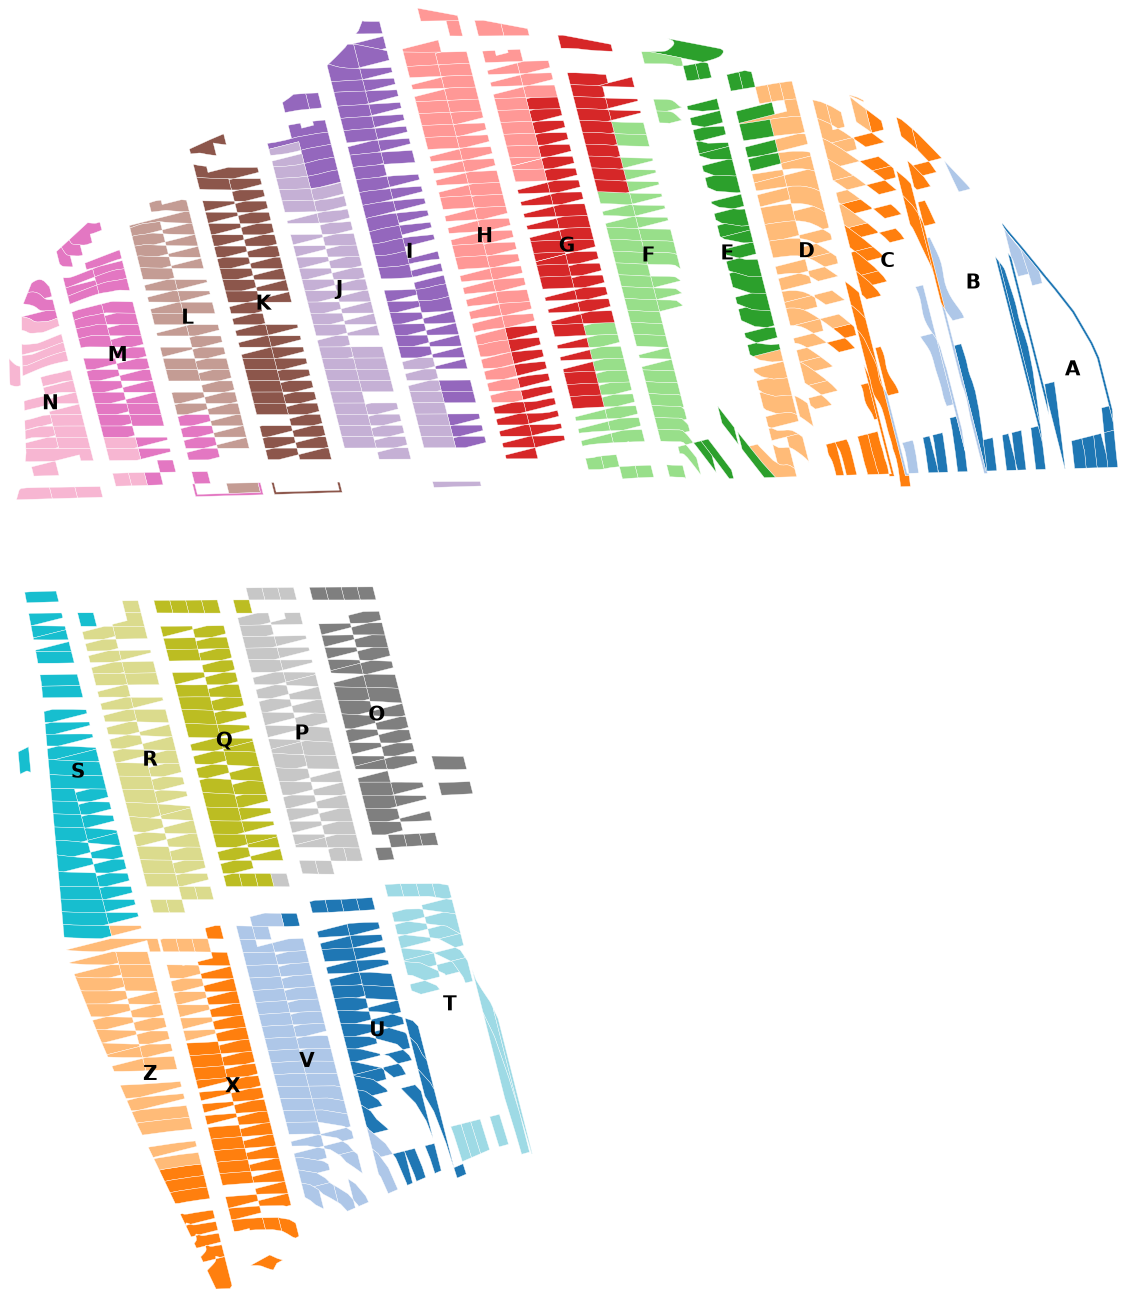
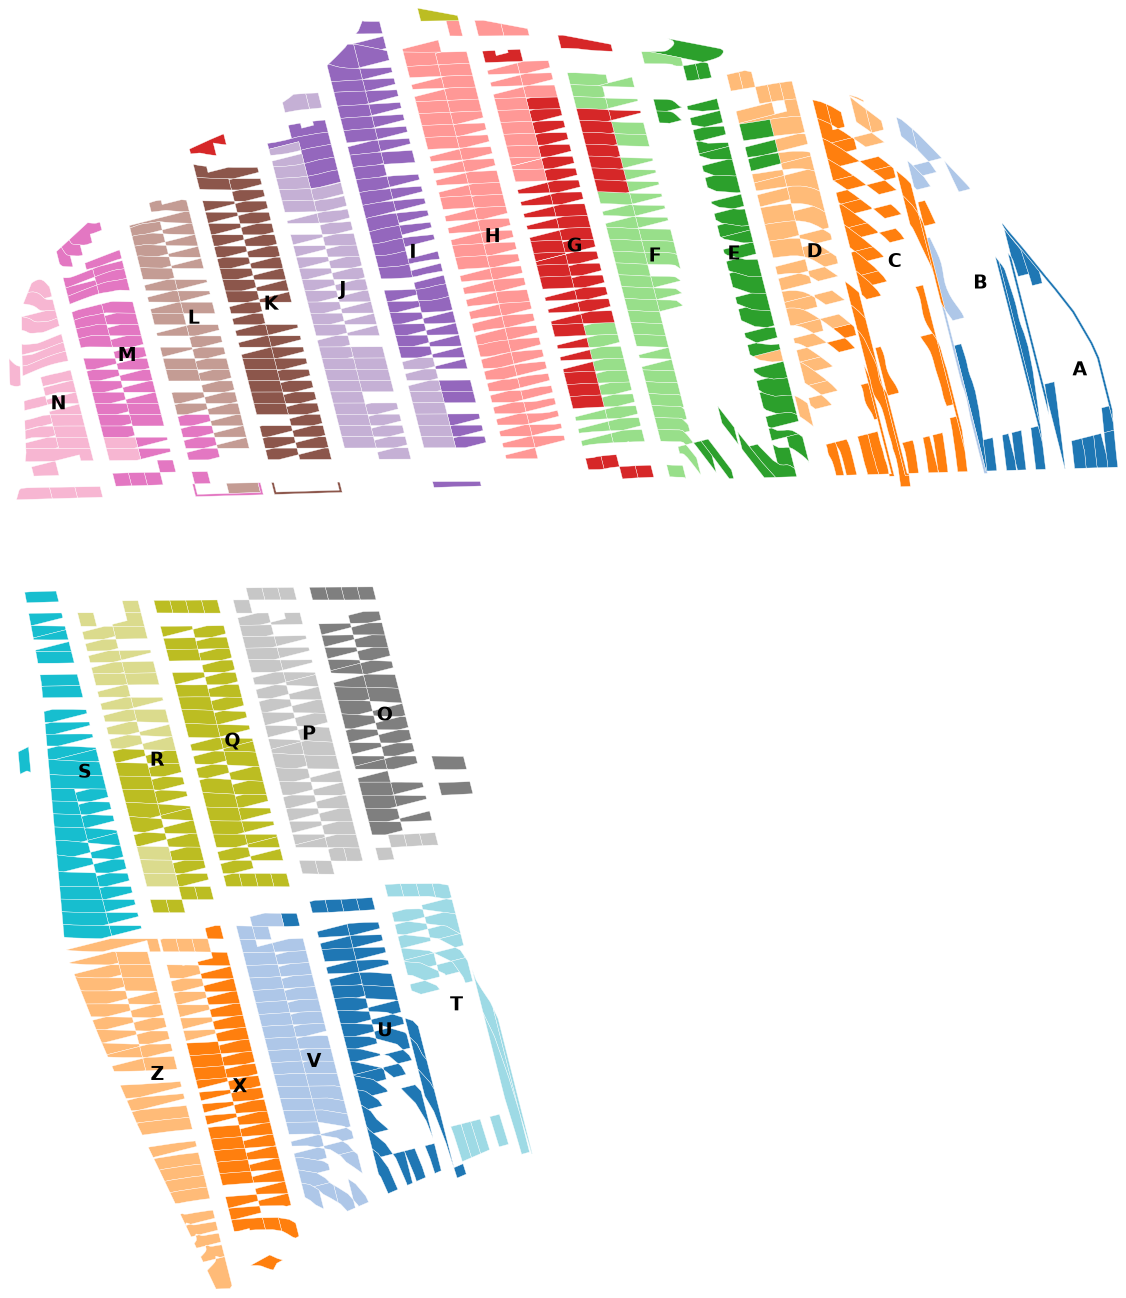
feat(mm-cad): quadra + status REAIS via quadro de disponibilidade (cruzado com a geometria do CAD)
Com o quadro oficial de disponibilidade (Mi Gestão) agora é possível rotular a
quadra de cada lote com base em dado real — fechando a única lacuna que faltava.

- scripts/cad/parse_schedule.py: parser do PDF de disponibilidade
  (quadra → lote → área → status), tratando o layout multi-coluna.
- scripts/cad/build_miguel_marques.py: cruza a geometria REAL do CAD
  (polígono + número + área por lote) com o schedule, atribuindo quadra e status
  por casamento (lote, área) e preenchendo lacunas por adjacência espacial.
- public/maps/miguel-marques-cad-lots.json: 1032 lotes com geometria real,
  quadra e status reais (822 confirmados diretamente pelo quadro; demais por
  adjacência). Preço = área × R$156,25/m². Status: 177 vendidos, 810 disponíveis,
  42 proprietário, 3 negociação.
- docs/cad/miguel-marques-cad-preview.png: preview por quadra — blocos contíguos
  e coerentes, reproduzindo a planta aprovada.

Cobertura: 1032 de ~1254 lotes do CAD (≈82%); os faltantes têm divisas que não
fecham em polígono limpo no CAD. Próximo passo: religar a MiguelMarquesPlanView
para renderizar esta geometria real.

Claude-Session: https://claude.ai/code/session_019GE9rC3vPRisnVytSbJ9zw

diff --git a/scripts/cad/build_miguel_marques.py b/scripts/cad/build_miguel_marques.py
@@ -1,0 +1,138 @@
+#!/usr/bin/env python3
+"""Geometria REAL (DXF) + quadra/status REAIS (schedule PDF) -> JSON final.
+Uso: build_miguel_marques.py <dxf> <schedule.json> [--rot 41] [--write out.json] [--preview out.png]"""
+import sys, re, json, math, argparse
+from collections import defaultdict, Counter
+import ezdxf
+from shapely.geometry import LineString, Point
+from shapely.ops import polygonize, unary_union
+from shapely.strtree import STRtree
+
+ap=argparse.ArgumentParser()
+ap.add_argument('dxf'); ap.add_argument('schedule')
+ap.add_argument('--rot',type=float,default=41.0); ap.add_argument('--write'); ap.add_argument('--preview')
+ap.add_argument('--vbw',type=float,default=1200.0)
+A=ap.parse_args()
+PPM2=156.25
+def clean(t): return re.sub(r'\\[A-Za-z][^;]*;|[{}]','',t).replace('\\P',' ').strip()
+
+doc=ezdxf.readfile(A.dxf); msp=doc.modelspace()
+def s(v,g=40): return round(v/g)*g
+lines=[]
+for e in msp:
+    if e.dxftype()=='LINE' and e.dxf.layer in ('A-DETL-THIN','A-DETL-MEDM','A-DETL'):
+        a,b=e.dxf.start,e.dxf.end; p,q=(s(a.x),s(a.y)),(s(b.x),s(b.y))
+        if p!=q: lines.append(LineString([p,q]))
+faces=[f for f in polygonize(unary_union(lines)) if 8e7<=f.area<=7e8]
+cent=[(f.centroid.x,f.centroid.y) for f in faces]
+nums=[];areas=[];ql=[]
+for e in msp:
+    if e.dxftype()=='MTEXT':
+        t=clean(e.text);p=e.dxf.insert
+        if e.dxf.layer=='A-AREA-IDEN':
+            if re.fullmatch(r'\d+',t):nums.append((int(t),p.x,p.y))
+            else:
+                m=re.search(r'([\d.,]+)\s*m',t)
+                if m:areas.append((float(m.group(1).replace(',','.')),p.x,p.y))
+        elif e.dxf.layer=='G-ANNO-TEXT' and re.fullmatch(r'[A-Z]',t):ql.append((t,p.x,p.y))
+atree=STRtree([Point(x,y) for _,x,y in areas])
+tok=[]
+for nv,x,y in nums:
+    j=atree.nearest(Point(x,y)); av,ax,ay=areas[j]; tok.append((nv,av,(x+ax)/2,(y+ay)/2))
+ttree=STRtree([Point(t[2],t[3]) for t in tok])
+pr=[]
+for fi,(cx,cy) in enumerate(cent):
+    ti=ttree.nearest(Point(cx,cy)); pr.append((math.dist((cx,cy),(tok[ti][2],tok[ti][3])),fi,ti))
+pr.sort(); ft={};used=set()
+for d,fi,ti in pr:
+    if fi in ft or ti in used or d>40000:continue
+    ft[fi]=ti;used.add(ti)
+lote_of={fi:tok[ti][0] for fi,ti in ft.items()}
+area_of={fi:tok[ti][1] for fi,ti in ft.items()}
+
+# schedule index: (lote, areaRounded) -> list[(quadra,status,area)]
+sched=json.load(open(A.schedule))
+idx=defaultdict(list)
+for q,rows in sched.items():
+    for r in rows: idx[(r['lote'],round(r['area']))].append((q,r['status'],r['area']))
+
+def lookup(L,Ar):
+    cands=[]
+    for da in (0,1,-1):
+        cands+=idx.get((L,round(Ar)+da),[])
+    # keep those within 0.6 m2
+    cands=[c for c in cands if abs(c[2]-Ar)<=0.8]
+    return cands
+
+quad={}; status={}
+for fi in ft:
+    c=lookup(lote_of[fi],area_of[fi])
+    qs=set(x[0] for x in c)
+    if len(qs)==1:
+        quad[fi]=c[0][0]; status[fi]=c[0][1]
+# adjacency
+tree=STRtree(faces); adj=defaultdict(set)
+for i in ft:
+    for j in tree.query(faces[i].buffer(80)):
+        if j!=i and j in ft and faces[i].distance(faces[j])<80: adj[i].add(j)
+# spatial fill (ambiguous first: pick candidate quadra supported by neighbours; then plain majority)
+for _ in range(8):
+    for fi in ft:
+        if fi in quad: continue
+        votes=Counter(quad[j] for j in adj[fi] if j in quad)
+        if not votes: continue
+        c=lookup(lote_of[fi],area_of[fi]); qs=set(x[0] for x in c)
+        if qs:
+            best=[(votes.get(q,0),q) for q in qs]; best.sort(reverse=True)
+            if best[0][0]>0:
+                quad[fi]=best[0][1]
+                status[fi]=next(x[1] for x in c if x[0]==best[0][1])
+        else:
+            quad[fi]=votes.most_common(1)[0][0]
+def nearest_letter(x,y): return min(ql,key=lambda q:(q[1]-x)**2+(q[2]-y)**2)[0]
+for fi in ft:
+    if fi not in quad: quad[fi]=nearest_letter(*cent[fi])
+    status.setdefault(fi,'disponivel')
+
+# transform
+rot=math.radians(-A.rot); cr,sr=math.cos(rot),math.sin(rot)
+def tf(x,y): return (x*cr-y*sr,x*sr+y*cr)
+pts=[tf(x,y) for fi in ft for x,y in faces[fi].exterior.coords]
+minx=min(p[0] for p in pts);maxx=max(p[0] for p in pts);miny=min(p[1] for p in pts);maxy=max(p[1] for p in pts)
+W=A.vbw; sc=W/(maxx-minx); H=round((maxy-miny)*sc,2)
+def norm(x,y):
+    rx,ry=tf(x,y); return ((rx-minx)*sc,(maxy-ry)*sc)
+lots=[]
+for fi in sorted(ft,key=lambda i:(quad[i],lote_of[i])):
+    poly=[norm(x,y) for x,y in faces[fi].exterior.coords[:-1]]
+    cx,cy=norm(*cent[fi]); ar=round(area_of[fi],2)
+    lots.append({'id':f'{quad[fi]}-{lote_of[fi]}','quadra':quad[fi],'lote':str(lote_of[fi]),
+        'points':' '.join(f'{x:.2f},{y:.2f}' for x,y in poly),'area':ar,
+        'labelX':round(cx,2),'labelY':round(cy,2),'status':status[fi],'price':round(ar*PPM2)})
+perq=Counter(l['quadra'] for l in lots); st=Counter(l['status'] for l in lots)
+print('per-quadra:',dict(sorted(perq.items())),file=sys.stderr)
+print('status:',dict(st),'| total',len(lots),'| viewBox 0 0',W,H,file=sys.stderr)
+# coverage vs schedule
+sc_match=sum(1 for l in lots if any(c[0]==l['quadra'] for c in idx.get((int(l['lote']),round(l['area'])),[])))
+print('lots whose (quadra,lote,area) is confirmed by schedule:',sc_match,file=sys.stderr)
+
+if A.write:
+    json.dump({'viewBox':f'0 0 {W:.0f} {H}','totalLots':len(lots),'lots':lots,
+        'amenities':[],'greenAreas':[],'streets':[],'perimeter':[],
+        'streetLabels':[{'x':round(norm(x,y)[0],2),'y':round(norm(x,y)[1],2),'name':t} for t,x,y in ql],
+        'note':'Geometria REAL do CAD oficial (poligonos/areas/numeros) + quadra/status do quadro de disponibilidade. Preco=area*R$156,25/m2.'},
+        open(A.write,'w'),ensure_ascii=False)
+    print('wrote',A.write,file=sys.stderr)
+if A.preview:
+    import matplotlib; matplotlib.use('Agg'); import matplotlib.pyplot as plt
+    from matplotlib.patches import Polygon as MP; from matplotlib.collections import PatchCollection
+    import matplotlib.cm as cm
+    qs=sorted(perq); cmap={q:cm.tab20(i%20) for i,q in enumerate(qs)}
+    fig,ax=plt.subplots(figsize=(16,16*H/W)); P=[];C=[]
+    for l in lots:
+        pp=[tuple(map(float,p.split(','))) for p in l['points'].split()]; P.append(MP(pp,closed=True)); C.append(cmap[l['quadra']])
+    ax.add_collection(PatchCollection(P,facecolor=C,edgecolor='white',linewidths=0.3))
+    for t,x,y in ql:
+        nx,ny=norm(x,y); ax.text(nx,ny,t,fontsize=15,weight='bold')
+    ax.set_xlim(0,W);ax.set_ylim(H,0);ax.set_aspect('equal');ax.axis('off')
+    plt.savefig(A.preview,dpi=90,bbox_inches='tight'); print('wrote',A.preview,file=sys.stderr)

diff --git a/scripts/cad/parse_schedule.py b/scripts/cad/parse_schedule.py
@@ -1,0 +1,61 @@
+#!/usr/bin/env python3
+"""Parseia o PDF 'Disponibilidade lotes' -> schedule quadra->[(lote,area,status)].
+Lida com multi-coluna e continuação de páginas."""
+import sys, fitz, re, json, unicodedata
+from collections import defaultdict, Counter
+PDF=sys.argv[1]; OUT=sys.argv[2] if len(sys.argv)>2 else '/tmp/mm_schedule.json'
+def N(t): return unicodedata.normalize('NFC',t)
+def num(s):
+    s=s.replace('.','').replace(' ','').replace(',','.')
+    try: return float(s)
+    except: return None
+STAT={'VENDIDO':'vendido','DISPONÍVEL':'disponivel','DISPONIVEL':'disponivel',
+      'PROPRIETARIO':'proprietario','PROPRIETÁRIO':'proprietario','RESERVADO':'negociacao',
+      'NEGOCIADO':'negociacao','NEGOCIAÇÃO':'negociacao','NEGOCIACAO':'negociacao','PERMUTA':'proprietario'}
+doc=fitz.open(PDF)
+schedule=defaultdict(list)
+for pno in range(len(doc)):
+    words=[(w[0],w[1],N(w[4])) for w in doc[pno].get_text('words')]
+    heads=[]
+    for x,y,t in words:
+        if t=='QUADRA':
+            same=sorted([u for u in words if abs(u[1]-y)<3 and u[0]>x and u[2]!='QUADRA'],key=lambda u:u[0])
+            if same and re.fullmatch(r'[A-Z]',same[0][2]): heads.append((same[0][2],x,y))
+    for letter,hx,hy in heads:
+        ys=[yy for _,xx,yy in heads if abs(xx-hx)<25 and yy>hy]
+        yend=min(ys) if ys else 100000
+        # band: from this quadra's LOTE col to just before next column.
+        # next column x (right neighbour) bounds the right edge
+        rightxs=[xx for _,xx,_ in heads if xx>hx+30]
+        rx=min(rightxs) if rightxs else hx+90
+        band=[w for w in words if hx-30<=w[0]<rx-6 and hy+6<=w[1]<yend-1]
+        rows=defaultdict(list)
+        for x,y,t in band: rows[round(y)].append((x,t))
+        for y in sorted(rows):
+            toks=sorted(rows[y],key=lambda z:z[0])
+            status=next((STAT[t.upper()] for _,t in toks if t.upper() in STAT),'disponivel')
+            nums=[(x,t) for x,t in toks if re.fullmatch(r'[\d.,]+',t)]
+            lote=area=None
+            for i,(x,t) in enumerate(nums):
+                v=num(t)
+                if v is not None and v==int(v) and 1<=v<=300:
+                    lote=int(v); rest=nums[i+1:]; break
+            if lote is None: continue
+            for x,t in rest:
+                v=num(t)
+                if v is not None and 70<=v<=900: area=round(v,2); break
+            if area: schedule[letter].append((lote,area,status))
+
+# de-dup (same quadra+lote) keeping first
+clean=defaultdict(dict)
+for q,rows in schedule.items():
+    for l,a,s in rows:
+        if l not in clean[q]: clean[q][l]=(a,s)
+out={q:[{'lote':l,'area':a,'status':s} for l,(a,s) in sorted(v.items())] for q,v in clean.items()}
+tot=sum(len(v) for v in out.values())
+for q in sorted(out):
+    sc=Counter(r['status'] for r in out[q])
+    print(f'  {q}: {len(out[q]):3d}  {dict(sc)}', file=sys.stderr)
+print('TOTAL:', tot, 'quadras:', len(out), file=sys.stderr)
+json.dump(out, open(OUT,'w'), ensure_ascii=False)
+print('wrote', OUT, file=sys.stderr)